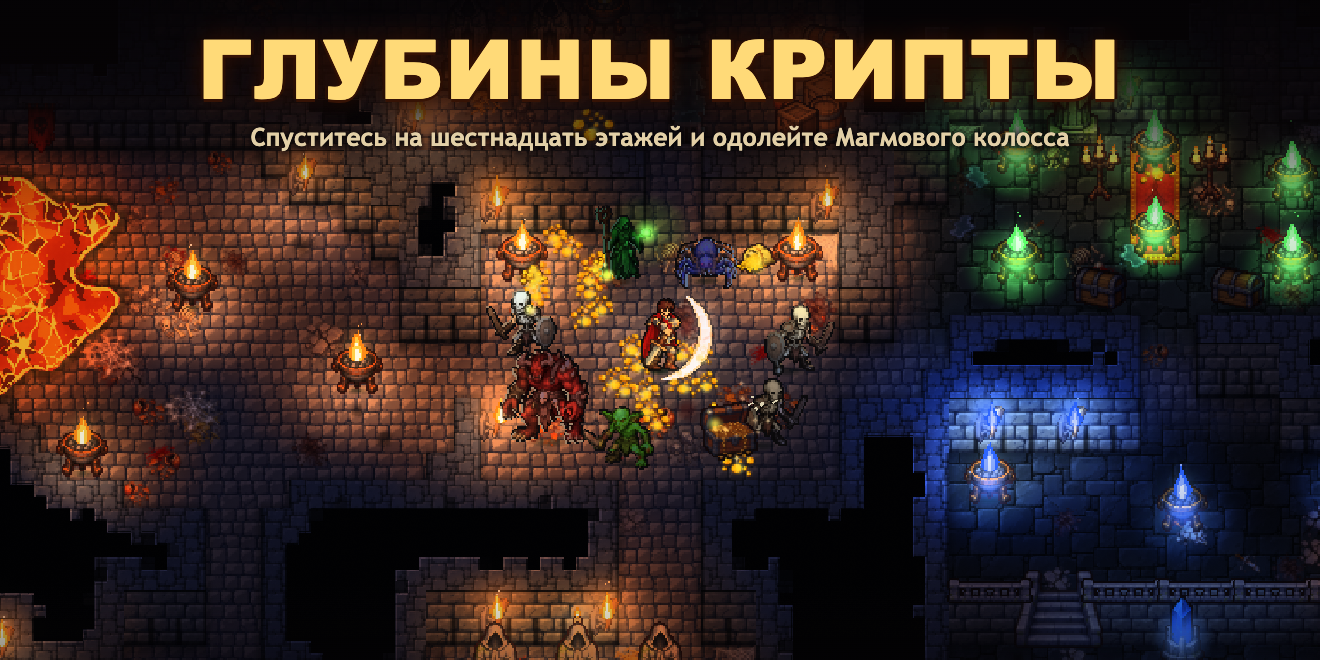
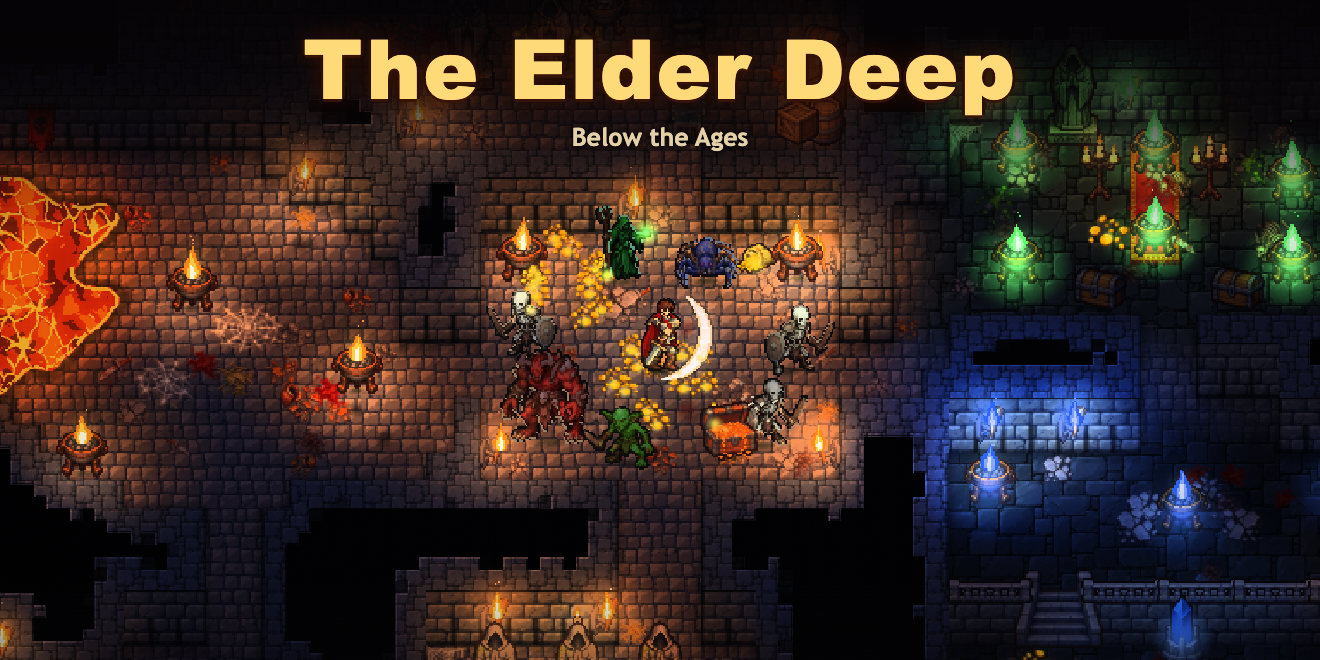
1310: The Elder Deep: Below the Ages

diff --git a/live/hud.js b/live/hud.js
@@ -81,7 +81,8 @@
   function title(S, t) {
     L.solid(0, 0, W, 200, [0, 0, 0], 0, 0, 0, 0.35);
     lab('tt', TXT('hud.title'), W / 2, 92, { size: 92, al: 0.5, col: C.gold, out: '#2a0d06' });
-    lab('ts', TXT('hud.title.2', { n: D.RUNS.campaign.floors }), W / 2, 168, { size: 28, al: 0.5, col: C.dim });
+    lab('tsb', TXT('hud.title.sub'), W / 2, 164, { size: 40, al: 0.5, col: '#e8c890', out: '#2a0d06' });
+    lab('ts', TXT('hud.title.2', { n: D.RUNS.campaign.floors }), W / 2, 214, { size: 28, al: 0.5, col: C.dim });
     const a = 0.55 + 0.45 * Math.sin(t * 3);
     lab('tp', TXT('hud.title.3'), W / 2, H - 90, { size: 34, al: 0.5, a });
   }
@@ -655,7 +656,8 @@
   function menu(S, t) {
     menuBack(t);
     lab('m_t', TXT('hud.menu'), W / 2, 220, { size: 104, al: 0.5, col: C.gold, out: '#2a0d06' });
-    lab('m_s', TXT('hud.menu.2', D.campaignLen()), W / 2, 310, { size: 28, al: 0.5, col: C.dim });
+    lab('m_sb', TXT('hud.menu.sub'), W / 2, 300, { size: 44, al: 0.5, col: '#e8c890', out: '#2a0d06' });
+    lab('m_s', TXT('hud.menu.2', D.campaignLen()), W / 2, 352, { size: 28, al: 0.5, col: C.dim });
     for (const b of D.UI.menu(!!S.saved, S.meta.diff, S.resetT !== undefined && S.t - S.resetT < 3 && S.resetM, S.meta.zoom, S.saved && S.saved.town)) { button('mb_' + b.id, b, S.hover);
       // on the normal difficulty a first-timer almost never wins; and ×1 is the reference's scale, small on a laptop
       const tip = b.id === 'diff' && !S.meta.wins && (S.meta.diff || 'normal') !== 'easy' ? TXT('hud.menu.tip') : b.id === 'zoom' && (S.meta.zoom || D.ZOOM) === 1 ? TXT('hud.menu.tip.2') : '';

diff --git a/desktop/main.js b/desktop/main.js
@@ -4,6 +4,9 @@ const { pathToFileURL } = require('url');
 
 const GAME = path.join(__dirname, 'game');
 
+// The save folder keeps the old product name: renaming the game must not lose a player's progress.
+app.setPath('userData', path.join(app.getPath('appData'), 'Глубины Крипты'));
+
 // A fixed privileged origin keeps localStorage (meta progress, the saved run) stable across launches and app updates.
 protocol.registerSchemesAsPrivileged([{ scheme: 'app', privileges: { standard: true, secure: true, supportFetchAPI: true } }]);
 
@@ -13,7 +16,7 @@ const toggleFullscreen = (win) => win.setFullScreen(!win.isFullScreen());
 
 const createWindow = () => {
   const win = new BrowserWindow({
-    width: 1600, height: 900, minWidth: 960, minHeight: 540, backgroundColor: '#000000', title: 'Глубины Крипты',
+    width: 1600, height: 900, minWidth: 960, minHeight: 540, backgroundColor: '#000000', title: 'The Elder Deep: Below the Ages',
     autoHideMenuBar: true, show: false,
     webPreferences: { contextIsolation: true, sandbox: true, autoplayPolicy: 'no-user-gesture-required' },
   });

diff --git a/live/text_ru.js b/live/text_ru.js
@@ -547,7 +547,10 @@
     'LEGEND.9': 'Использован',
     'hud.draw': 'Отладка · `',
     'hud.draw.2': 'Пауза',
-    'hud.title': 'ГЛУБИНЫ КРИПТЫ',
+    'NAME.game': 'The Elder Deep',
+    'NAME.gameSub': 'Below the Ages',
+    'hud.title': '{@game}',
+    'hud.title.sub': '{@gameSub}',
     'hud.title.2': '{n} этажей тьмы, каждый раз других. Добыча сама себя не соберёт',
     'hud.title.3': 'Нажми любую клавишу',
     'hud.world': 'уклон',
@@ -671,7 +674,8 @@
     'hud.news': 'Что нового',
     'hud.news.keys': 'Колесо, ↑ ↓, PgUp PgDn',
     'hud.tests.2': 'Отдельные забеги: биомы после кампании и бесконечный спуск',
-    'hud.menu': 'ГЛУБИНЫ КРИПТЫ',
+    'hud.menu': '{@game}',
+    'hud.menu.sub': '{@gameSub}',
     'hud.menu.2': '{n} {floors}: от подземелья до Магмовых пещер',
     'hud.menu.tip': 'Впервые? Начни с лёгкой',
     'hud.menu.tip.2': '×1,5: крупнее',

diff --git a/live/index.html b/live/index.html
@@ -1,5 +1,5 @@
 <!doctype html>
-<html><head><meta charset="utf-8"><title>Глубины Крипты</title>
+<html><head><meta charset="utf-8"><title>The Elder Deep: Below the Ages</title>
 <style>
 :root{--ar:1.7778}
 html,body{margin:0;background:#000;height:100%;overflow:hidden}

diff --git a/TASKS_COMPLETED.md b/TASKS_COMPLETED.md
@@ -1385,3 +1385,5 @@ R-32. ✅ **[И]** Зачарование и перековка (Torchlight 1–
 1330. ✅ **[И][Г]** (3.6; R-17) Опыт за любой квест: сейчас у `elites`, `descent` и `named` в `rw` (`data_town.js`) нет `xp`. Размер — из `questReward` ветки `svsq/town-updates` (1620, ×2), делать после её слияния. Объём S. → 09.11.2026: опыт добавлен в награды elites, descent, named.
 
 1359. ✅ **[И]** (6.10; R-17) Убрать путевые камни (1009) пока, достаточно порталов на аренах боссов: убрать с этажей, с карты и из кольца камней в городе; старые сохранения загружаются; проверить, что портал с арены есть на каждом этаже босса. Код не удалять, если проще отключить в данных. Объём S. → 09.11.2026: камни отключены в данных (WAYSTONES в data_runs.js), старые ways в окне портала не показываются; код сохранён.
+
+1310. ✅ **[И]** (1.10; R-40, после 1320 — решение игрока 09.11.2026: название вырастает из лора) Новое название: «Глубины Крипты» читается примитивно, а крипта — лишь один биом из многих. Предложить варианты, игрок выбирает. Затем заменить в `hud.title`, `hud.menu`, сборках и README; подзаголовок — вместе с 1182. Объём S. → 09.11.2026: The Elder Deep, подзаголовок Below the Ages (`NAME.game`, `NAME.gameSub`), заменено в меню, заставке, сборке, README, обложке.

diff --git a/TASKS.md b/TASKS.md
@@ -288,8 +288,6 @@
 
 1309. ⏳ **[И]** (1.9; R-41, после 1300) Кнопка и красивый экран «Статистика»: забеги, победы, смерти, убийства, элиты и боссы, осколки, лучшая глубина, время в игре, можно по классам. В `S.meta` есть только часть (`runs`, `wins`, `best`), остальное считается с момента появления экрана, сохранения остаются совместимыми. Строка с осколками и забегами из меню уходит сюда. Объём M.
 
-1310. ⏳ **[И]** (1.10; R-40, после 1320 — решение игрока 09.11.2026: название вырастает из лора) Новое название: «Глубины Крипты» читается примитивно, а крипта — лишь один биом из многих. Предложить варианты, игрок выбирает. Затем заменить в `hud.title`, `hud.menu`, сборках и README; подзаголовок — вместе с 1182. Объём S.
-
 1311. ⏳ **[И]** (1.11; R-41, после 1300) Несколько сохранений: «Загрузить игру» → список сохранённых игр (класс, уровень, этаж, дата), удаление с подтверждением. Сейчас один `S.saved`. Решение игрока 09.11.2026: пока Алтарь, осколки и сундук общие на все сохранения (`S.meta`), слоты хранят только забеги. Объём M.
 
 **Лор, персонажи, тексты** (R-40)

diff --git a/docs/WORLD_BIBLE.md b/docs/WORLD_BIBLE.md
@@ -104,6 +104,6 @@
 >
 > После победы над Змеем: «Вспомнил! Он сказал: "С вас две монеты". Двести лет прошло, а он всё ещё считает, что я должен».
 
-## Открыто
+## Название игры
 
-1. Название игры (1310): рабочий вариант ElderDeep: Below the Ages, в игре пока не заменено.
+The Elder Deep, подзаголовок Below the Ages. Строки `NAME.game` и `NAME.gameSub` в `live/text_ru.js`.

diff --git a/README.md b/README.md
@@ -1,6 +1,6 @@
-# Глубины Крипты
+# The Elder Deep: Below the Ages
 
-![Глубины Крипты](docs/cover.png)
+![The Elder Deep: Below the Ages](docs/cover.png)
 
 Тёмное фэнтези-подземелье в пиксель-арте: вид сверху 3/4, процедурные этажи, лут, способности и прогресс между забегами.
 Игра работает в браузере на собственном движке WebGL2 без сборки и зависимостей.

diff --git a/ARCHITECTURE.md b/ARCHITECTURE.md
@@ -1,4 +1,4 @@
-# Архитектура «Глубин Крипты»
+# Архитектура The Elder Deep: Below the Ages
 
 Разбор для R-38 (задача 500, 07.11.2026): что за что отвечает сейчас, где фичи сталкиваются, целевая раскладка модулей и
 порядок этапов. Код этим документом не переносится. Номера строк даны по `dev` 4fcbdd3.
